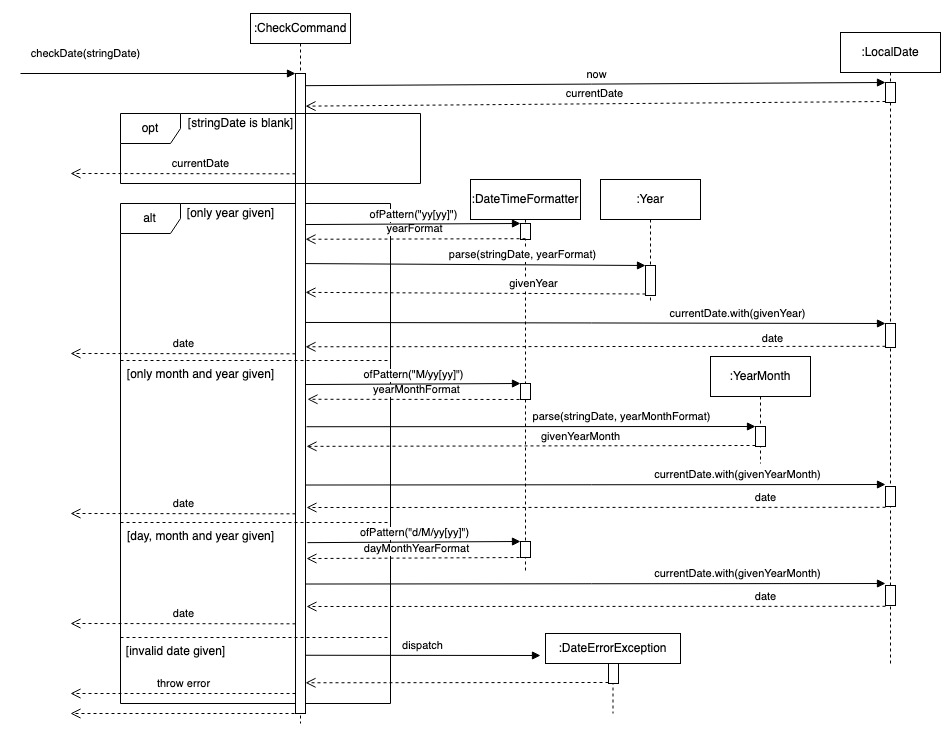
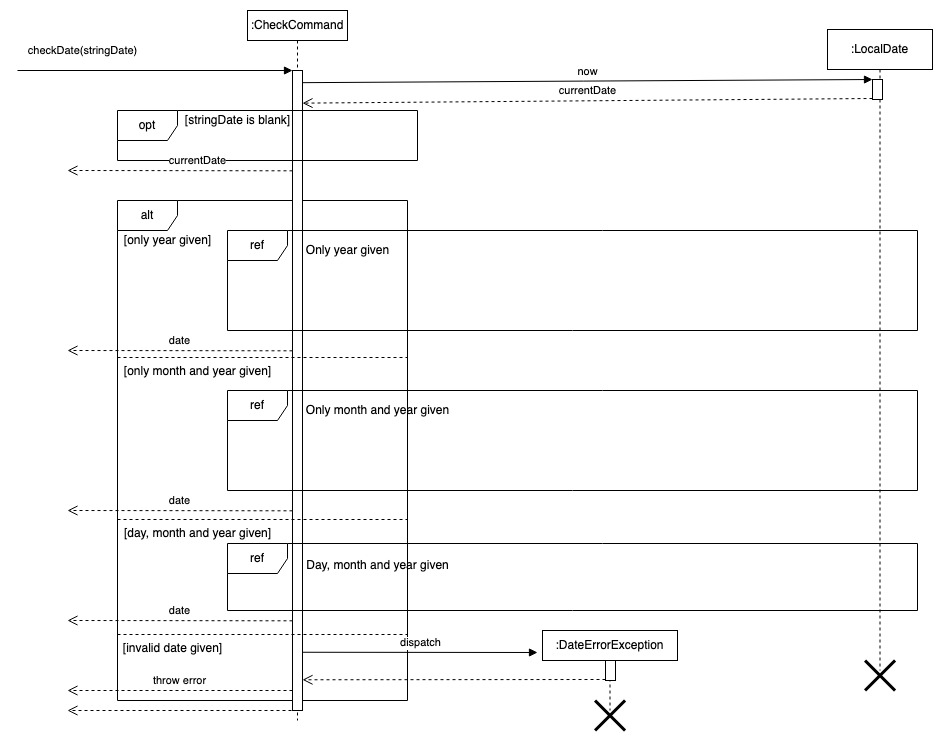
Update DG Fix done, undone, delete command bug when trying to execute on a repeat task

diff --git a/src/main/java/seedu/duke/command/CheckCommand.java b/src/main/java/seedu/duke/command/CheckCommand.java
@@ -77,7 +77,7 @@ public class CheckCommand extends Command {
             assert startTime != null : "null time read for startTime";
             assert endTime != null : "null time read for endTime";
 
-            boolean isTimePeriodValid = verifyValidStartEndDateTime(startDate, endDate, startTime, endTime);
+            boolean isTimePeriodValid = verifyValidTimePeriod(startDate, endDate, startTime, endTime);
 
             if (!isTimePeriodValid) {
                 logger.warning("InvalidTimePeriodException: Start of time period given was not before end of period.");
@@ -218,8 +218,8 @@ public class CheckCommand extends Command {
      * @param endTime the end time of the time period
      * @return boolean showing if the time period is valid i.e. the start is before the end
      */
-    private boolean verifyValidStartEndDateTime(LocalDate startDate, LocalDate endDate,
-                                                LocalTime startTime, LocalTime endTime) {
+    private boolean verifyValidTimePeriod(LocalDate startDate, LocalDate endDate,
+                                          LocalTime startTime, LocalTime endTime) {
         logger.fine("Start verifying time period validity.");
         logger.info("Start date: \"" + startDate + "\", Start time: \"" + startTime + "\"");
         logger.info("End date: \"" + endDate + "\", End time: \"" + endTime + "\"");

diff --git a/src/main/java/seedu/duke/command/DeleteCommand.java b/src/main/java/seedu/duke/command/DeleteCommand.java
@@ -90,7 +90,7 @@ public class DeleteCommand extends Command {
         int eventIndex = Integer.parseInt(eventIdentifierArray[0]) - 1;
         Event deleteEvent = eventList.getEventByIndex(eventIndex);
 
-        if (deleteEvent.getRepeatType() == null) {
+        if (deleteEvent.getRepeatType() == null || eventIdentifierArray.length == 1) {
             eventList.getEvents().remove(deleteEvent);
             ui.printEventDeletedMessage(deleteEvent);
             storage.saveFile(storage.getFileLocation(listType), data, listType);

diff --git a/src/main/java/seedu/duke/command/UndoneCommand.java b/src/main/java/seedu/duke/command/UndoneCommand.java
@@ -95,7 +95,7 @@ public class UndoneCommand extends Command {
         int eventIndex = Integer.parseInt(eventIdentifierArray[0]) - 1;
         Event undoneEvent = eventList.getEventByIndex(eventIndex);
 
-        if (undoneEvent.getRepeatType() == null) {
+        if (undoneEvent.getRepeatType() == null || eventIdentifierArray.length == 1) {
             undoneEvent.markAsUndone();
             ui.printEventMarkedUndoneMessage(undoneEvent);
             storage.saveFile(storage.getFileLocation(listType), data, listType);

diff --git a/src/main/java/seedu/duke/command/DoneCommand.java b/src/main/java/seedu/duke/command/DoneCommand.java
@@ -95,7 +95,7 @@ public class DoneCommand extends Command {
         int eventIndex = Integer.parseInt(eventIdentifierArray[0]) - 1;
         Event doneEvent = eventList.getEventByIndex(eventIndex);
 
-        if (doneEvent.getRepeatType() == null) {
+        if (doneEvent.getRepeatType() == null || eventIdentifierArray.length == 1) {
             doneEvent.markAsDone();
             ui.printEventMarkedDoneMessage(doneEvent);
             storage.saveFile(storage.getFileLocation(listType), data, listType);

diff --git a/docs/DeveloperGuide.md b/docs/DeveloperGuide.md
@@ -433,10 +433,15 @@ The check feature allows the user to check for events happening during a defined
 |END_DATE|The end date of the defined time period. Accepted formats are: d/M/yyyy, M/yyyy, yyyy, d/M/yy, M/yy, yy. Slashes may also be replaced with dashes. If left blank, the current date is taken by default. Missing fields (e.g. 2020 missing d/M) will be filled in using the current date (i.e if today's date is 15/10/2021, input 2020 will be read as 15/10/2020). |
 |END_TIME|The start time of the defined time period. Accepted formats are: hh:mm a, hhmm a, hh a, HH:mm, HHmm, HH. If left blank, current time is taken by default. If only hour is given, the time at the start of the hour is taken. |
 
+The following is the class diagram for CheckCommand:
+
+![CheckCommand Class Diagram](./diagrams/CheckCommandClassDiagram.jpg)
+
 The check feature is implemented using the `CheckCommand` class. `CheckCommand` accesses the `Event` stored within `EventList` in order to determine if events are occurring within a given time period. It implements the following operations:
 
 - `CheckCommand#getDate(stringDate)` -- Parses a given string to get a LocalDate variable (either the start or end date for the time period).
 - `CheckCommand#getTime(stringTime)` -- Parses a given string to get a LocalTime variable (either the start or end time for the time period).
+- `CheckCommand#verifyValidTimePeriod(LocalDate, LocalDate, LocalTime, LocalTime)` -- Verifies that the given start of the time period is before the given end of the time period.
 - `CheckCommand#checkEventsInTimeRange(eventsList, startDate, endDate, startTime, endTime)` -- Checks each event in the eventsList to see if they occur within the time period defined in the command, and saves all coinciding events in an ArrayList.
 
 These operations are not exposed, and are used as private methods within the `CheckCommand` interface.
@@ -453,15 +458,25 @@ This sequence diagram shows how the `getDate` method functions:
 
 ![Sequence Diagram for getDate](./diagrams/getDate_seq_diagram.jpg)
 
-Step 4. Within `CheckCommand#execute()`, the start date time and end date time is passed to `CheckCommand#checkEventsInTimeRange()` along with an `EventList` (i.e. Zoom, Personal or Timetable). This method checks each `Event` in the `EventList` to determine if the event occurs within the time period. If the event date time coincides with the time period, the event is added to an ArrayList that stores all the coinciding events in the current `EventList`. This is done for each `EventList`. 
+![getDate only year](./diagrams/getDate-only-year-given.jpg)
 
-Step 5. The contents of the ArrayLists returned by `CheckCommand#checkEventsInTimeRange()` are combined into a single ArrayList, and a new `EventList` ("coinciding") is created using this combined list of events.
+![getDate only month year](./diagrams/getDate-only-month-year.jpg)
 
-Step 6. `Ui#printList()` is called to print the list of coinciding events.
+![getDate day month year](./diagrams/getDate-day-month-year.jpg)
+
+Step 4. Within `CheckCommand#execute()`, the start date, start time, end date and end time are passed to `CheckCommand#verifyValidTimePeriod()`. This method checks that the start date and time of the time period happen before the end date and time, and returns a boolean indicating the validity of the given time period.
+
+Step 5. Within `CheckCommand#execute()`, the start date time and end date time is passed to `CheckCommand#checkEventsInTimeRange()` along with an `EventList` (i.e. Zoom, Personal or Timetable). This method checks each `Event` in the `EventList` to determine if the event occurs within the time period. If the event date time coincides with the time period, the event is added to an ArrayList that stores all the coinciding events in the current `EventList`. This is done for each `EventList`. 
+
+Step 6. The contents of the ArrayLists returned by `CheckCommand#checkEventsInTimeRange()` are combined into a single ArrayList, and a new `EventList` ("coinciding") is created using this combined list of events.
+
+Step 7. `Ui#printList()` is called to print the list of coinciding events.
 
 The following sequence diagram shows how the check operation works:
 
 ![Sequence Diagram for CheckCommand](./diagrams/CheckCommand_seq_diagram.jpg)
+
+
 
 <div style="page-break-after: always;"></div>
 
@@ -508,6 +523,10 @@ The done feature allows users to mark events in Scheduler as done. The format fo
 |EVENT_INDEX|Index number of the event to be marked done that is stored on the Event List.|
 |EVENT_DATE|The date on which the repeated event to be marked done should occur. Accepted formats are: d/M/yyyy, d/M/yy, yyyy/M/d, yy/M/d. Slashes may also be replaced by dashes.|
 
+The following is the class diagram for DoneCommand:
+
+![DoneCommand Class Diagram](./diagrams/DoneCommandClassDiagram.jpg)
+
 The done feature is implemented using the `DoneCommand` class. `DoneCommand` accesses the `Event` stored within `EventList` and marks it as done. It implements the following operations:
 
 - `DoneCommand#parse(input)` -- Parses the processed input from `Parser` to create a `DoneCommand` with the parsed event list type and event identifier.
@@ -520,9 +539,15 @@ Given below is an example usage scenario and how the done feature functions.
 
 Step 1. The user inputs `done personal; 4` in order to mark the 4th `Personal` event as done. This input is received by the Ui, which processes it into a string. The string is parsed by the Parser, which removes "done" from the string and parses the resulting string with `DoneCommand#parse()`. This returns a `DoneCommand`.
 
-Step 2. `DoneCommand#execute()` is called. The event identifier is split to separate the event index from an event date (if event date is given). 
+![Created DoneCommand](./diagrams/CreatedDoneCommand.jpg)
 
-Step 3. Within `DoneCommand#execute()`, the event indicated by the given event index is called from the indicated event list. If an event date is given and the called event is a repeat event, `DoneCommand#scanRepeatList()` is called to check for events matching the date in the repeat list. When the target event is found, it is marked as done.
+Step 2. `DoneCommand#execute()` is called. The `command` string is split at semicolons to separate the event index from an event date (if event date is given). The event index for this DoneCommand is 4, and it has no event date.
+
+Step 3. Within `DoneCommand#execute()`, the 4th `Event` is called from the Personal `EventList` and is marked as done.
+
+![DoneCommand state diagram](./diagrams/DoneCommandStates.jpg)
+
+If the called event is a repeat event and an event date is given, `DoneCommand#scanRepeatList()` is called to check for events matching the event date in the repeat event's `repeatEventList`. When a matching event is found, it is marked as done.
 
 Step 4. `Ui#printEventMarkedDoneMessage()` is called to print the event marked as done.
 
@@ -537,6 +562,10 @@ The undone feature allows users to mark events in Scheduler as undone. The forma
 |EVENT_TYPE|The type of event to be marked undone. Accepted arguments are `personal`, `timetable` or `zoom`.|
 |EVENT_INDEX|Index number of the event to be marked undone that is stored on the Event List.|
 |EVENT_DATE|The date on which the repeated event to be marked undone should occur. Accepted formats are: d/M/yyyy, d/M/yy, yyyy/M/d, yy/M/d. Slashes may also be replaced by dashes.|
+
+The following is the class diagram for UndoneCommand:
+
+![UndoneCommand Class Diagram](./diagrams/UndoneCommandClassDiagram.jpg)
 
 The undone feature is implemented using the `UndoneCommand` class. `UndoneCommand` accesses the `Event` stored within `EventList` and marks it as undone. It implements the following operations:
 
@@ -568,10 +597,14 @@ The delete feature allows users to delete events from Scheduler. The format for 
 |EVENT_INDEX|Index number of the event to be deleted that is stored on the Event List.|
 |EVENT_DATE|The date on which the repeated event to deleted should occur. Accepted formats are: d/M/yyyy, d/M/yy, yyyy/M/d, yy/M/d. Slashes may also be replaced by dashes.|
 
+The following is the class diagram for DeleteCommand:
+
+![DeleteCommand Class Diagram](./diagrams/DeleteCommandClassDiagram.jpg)
+
 The delete feature is implemented using the `DeleteCommand` class. `DeleteCommand` accesses the `Event` stored within `EventList` and removes it from the `EventList` to delete it from Scheduler--;. It implements the following operations:
 
 - `DeleteCommand#parse(input)` -- Parses the processed input from `Parser` to create an `DeleteCommand` with the parsed event list type and event identifier.
-- `DeleteCommand#scanRepeatList(repeatEventList, deleteEventDate, ui)` -- Scans the `repeatEventList` of a repeat event and deletes the matching event from the `repeatEventList`.
+- `DeleteCommand#scanRepeatList(repeatEventList, deleteEventDate, ui, deleteEvent)` -- Scans the `repeatEventList` of a repeat event and deletes the matching event from the `repeatEventList`.
 
 `DeleteCommand#parse(input)` is exposed and is used in Parser to create the `DeleteCommand`.
 `DeleteCommand#scanRepeatList(repeatEventList, undoneEventDate, ui)` is not exposed, and is used as a private method within the `DeleteCommand` interface.
